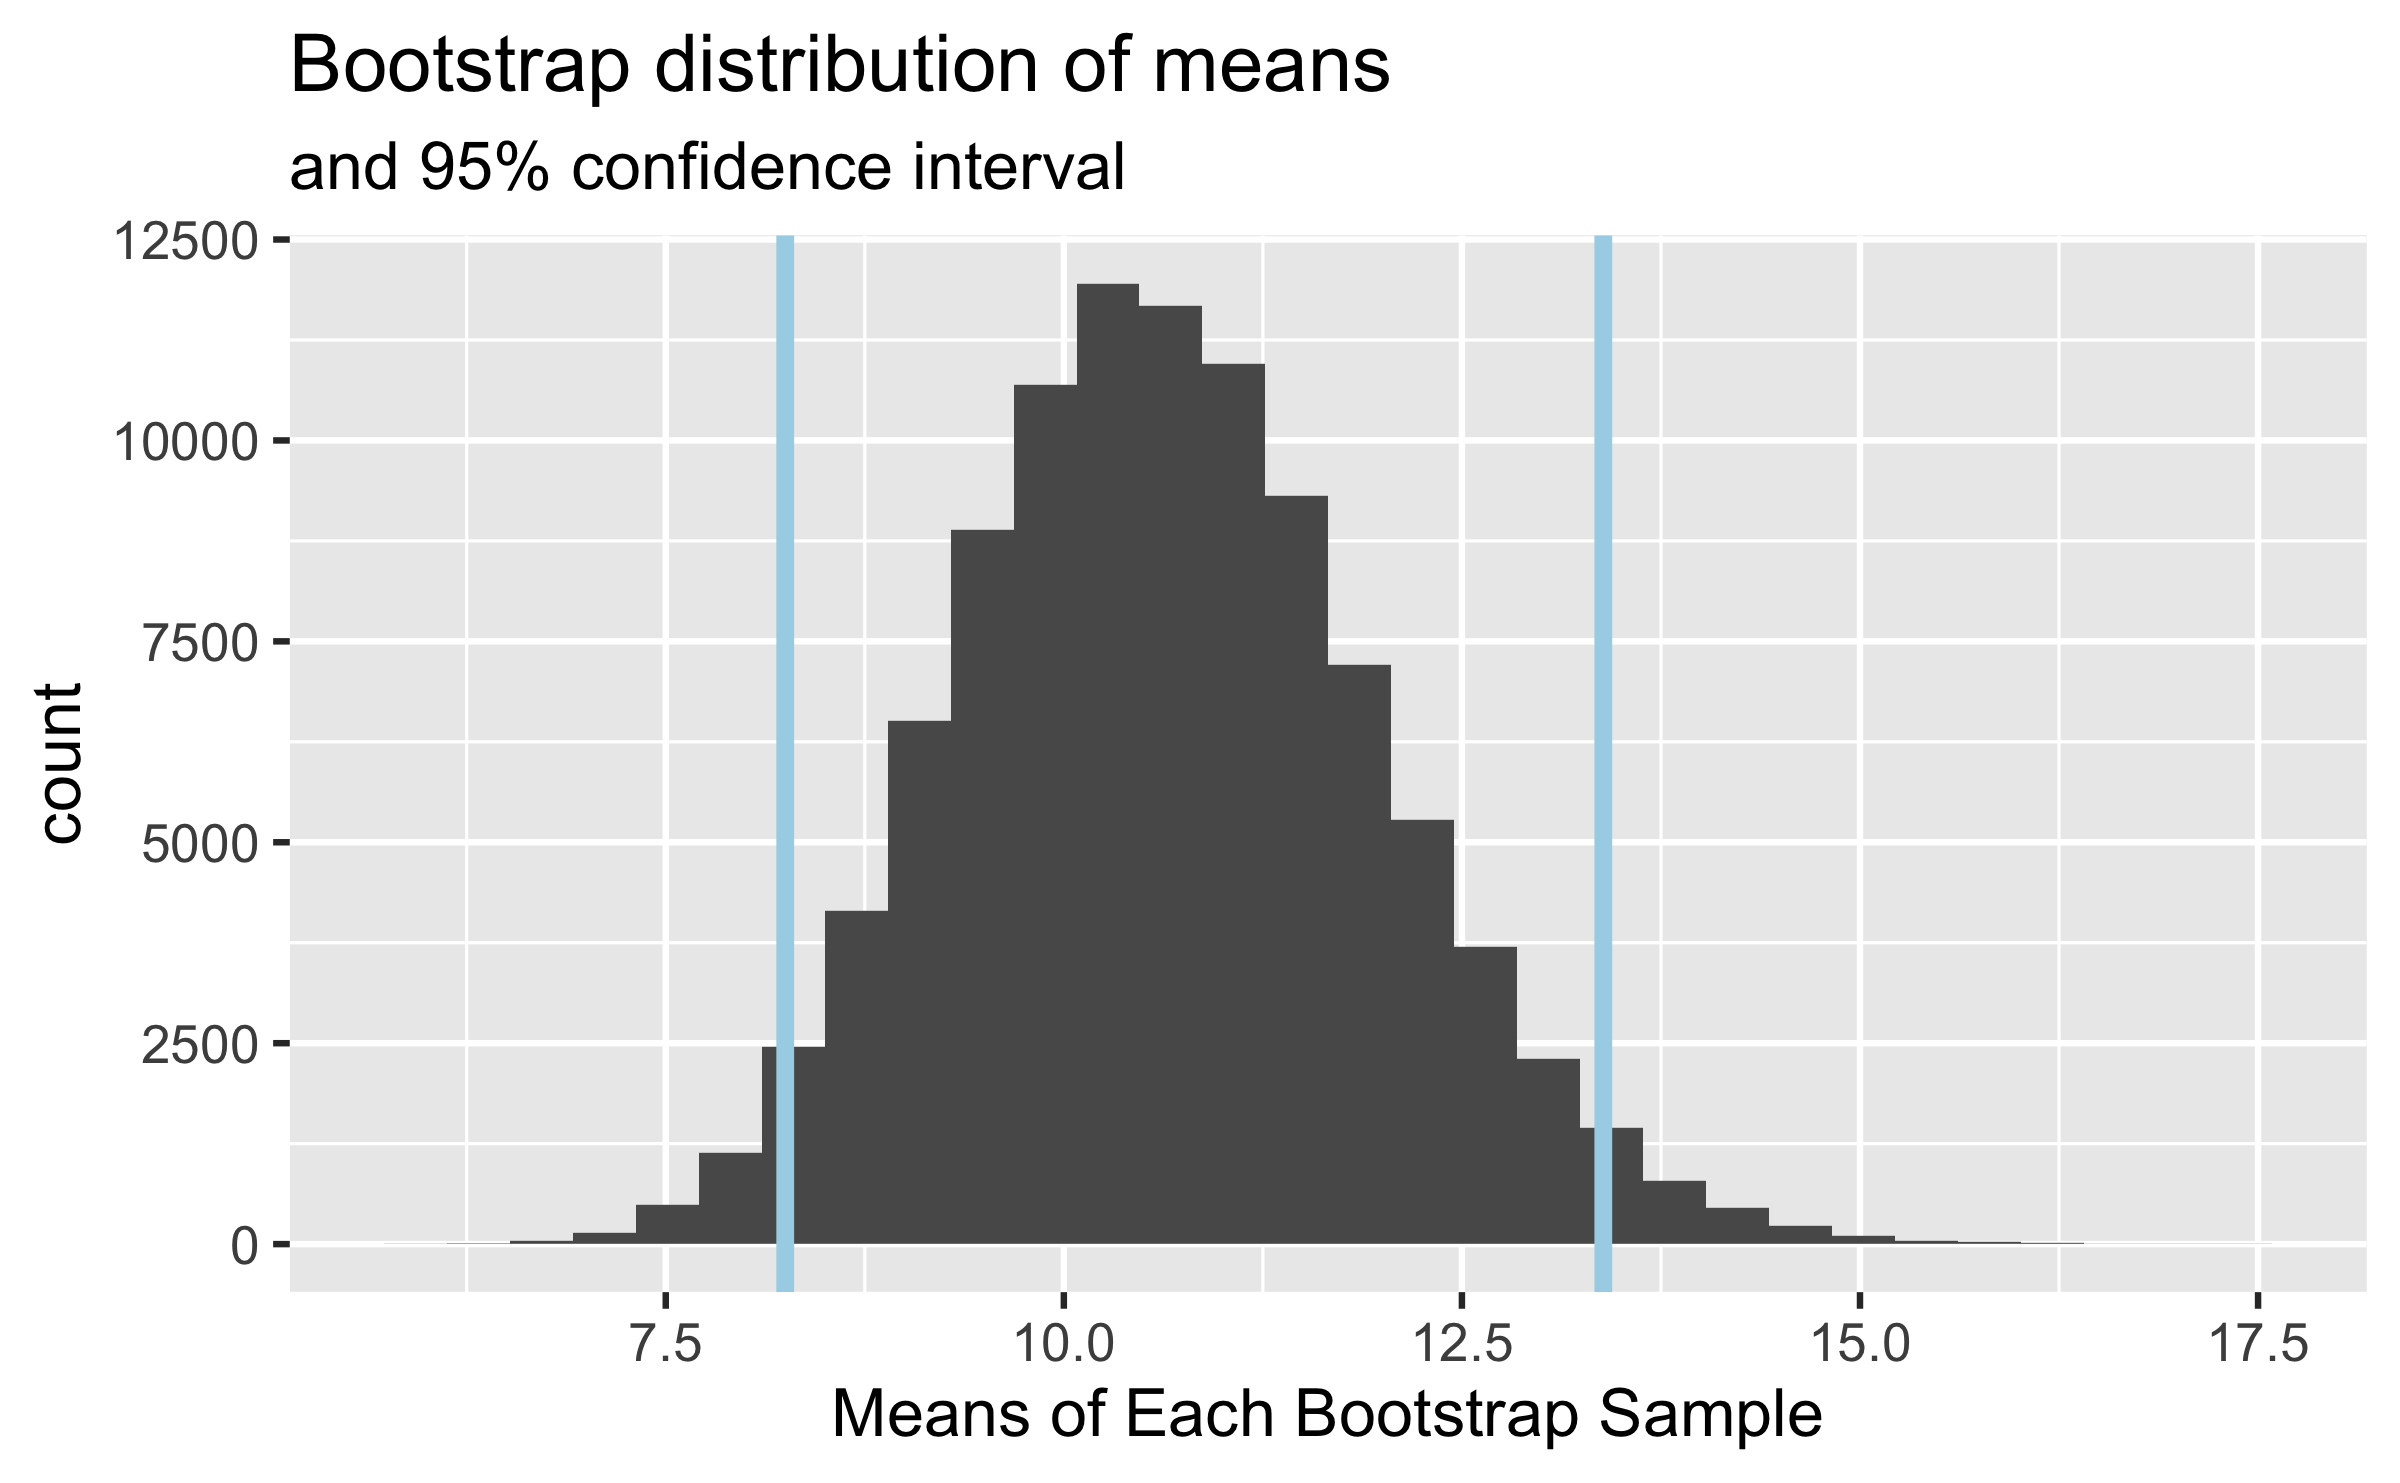
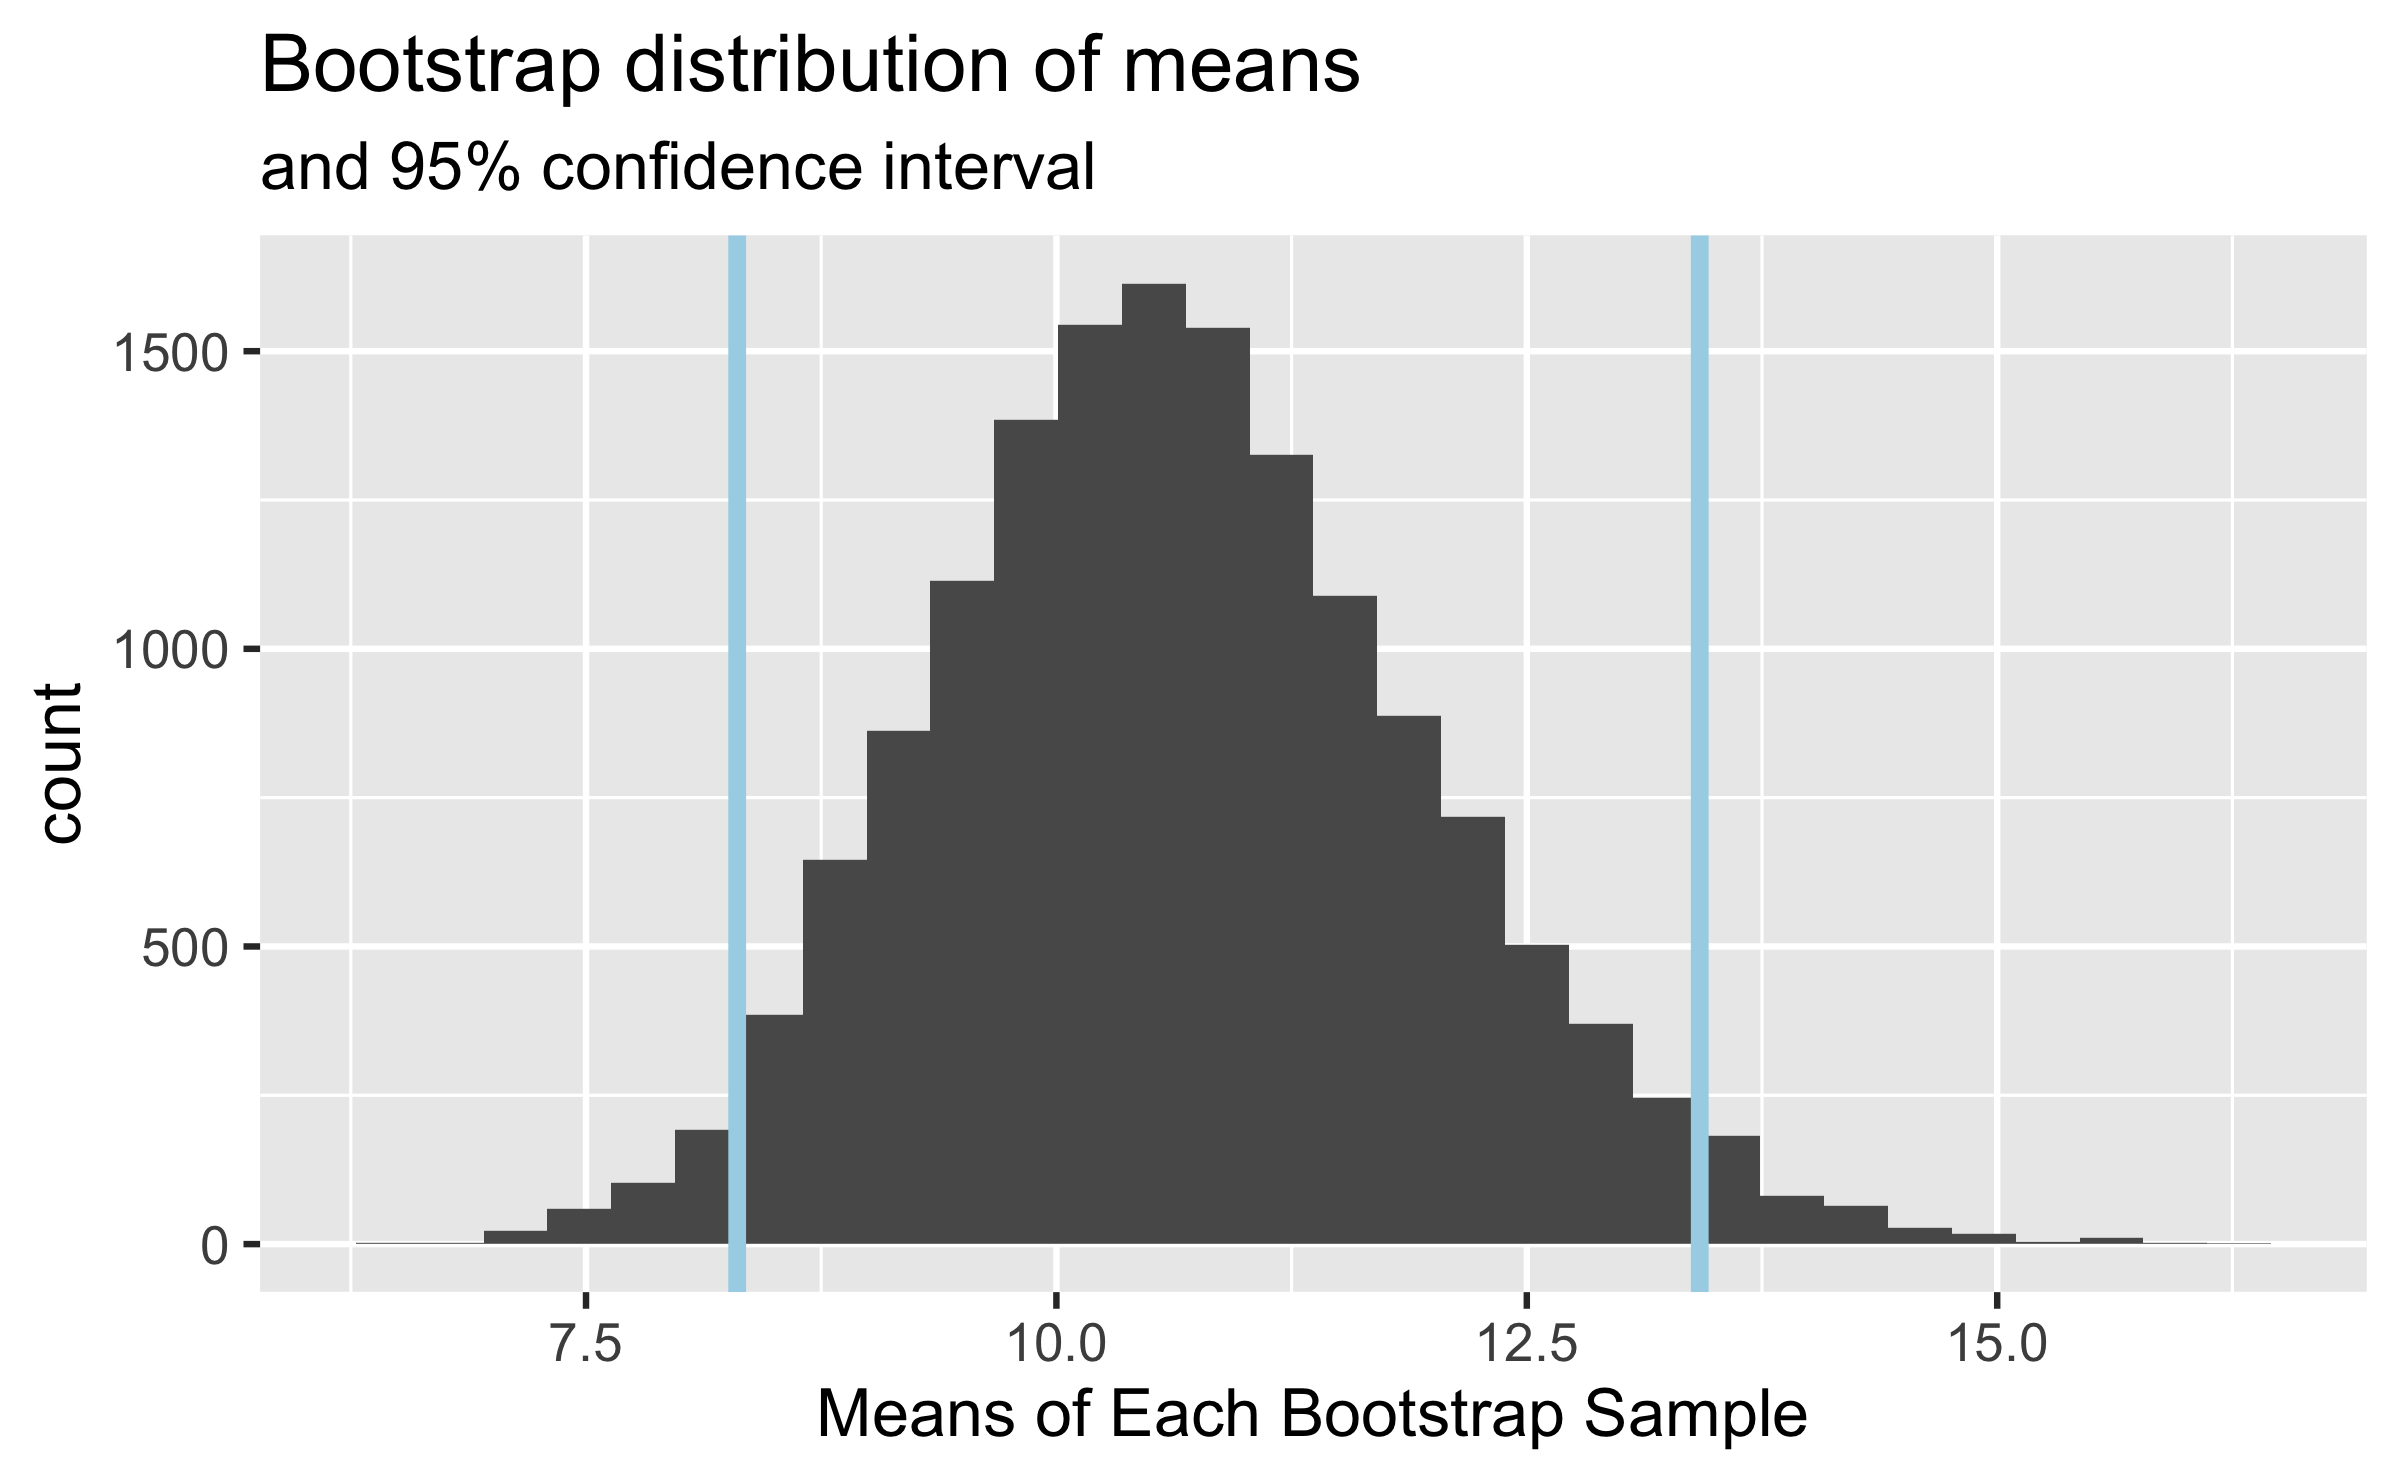
back to 15k bootstrap

diff --git a/docs/slides/week-06/w6-l02-clt.html b/docs/slides/week-06/w6-l02-clt.html
@@ -682,8 +682,8 @@ flint %&gt;%
 boot_flintmean &lt;- flint %&gt;%
   # specify the variable of interest
   specify(response = Pb_initial) %&gt;%
-  # generate 100000 bootstrap samples
-  generate(reps = 100000, type = "bootstrap") %&gt;%
+  # generate 15000 bootstrap samples
+  generate(reps = 15000, type = "bootstrap") %&gt;%
   # calculate the mean of each bootstrap sample
   calculate(stat = "mean")
 ```
@@ -703,7 +703,7 @@ boot_flintmean
 
 ```
 #&gt; Response: Pb_initial (numeric)
-#&gt; # A tibble: 100,000 × 2
+#&gt; # A tibble: 15,000 × 2
 #&gt;   replicate  stat
 #&gt;       &lt;int&gt; &lt;dbl&gt;
 #&gt; 1         1  9.46
@@ -712,7 +712,7 @@ boot_flintmean
 #&gt; 4         4  9.31
 #&gt; 5         5 13.4 
 #&gt; 6         6 10.6 
-#&gt; # … with 99,994 more rows
+#&gt; # … with 14,994 more rows
 ```
 
 ---
@@ -746,7 +746,7 @@ boot_flintmean %&gt;%
 #&gt; # A tibble: 1 × 2
 #&gt;   lower upper
 #&gt;   &lt;dbl&gt; &lt;dbl&gt;
-#&gt; 1  8.25  13.4
+#&gt; 1  8.30  13.4
 ```
 
 ---
@@ -762,15 +762,15 @@ boot_flintmean %&gt;%
 ## Interpret the confidence interval
 
 .question[
-The 95% confidence interval for the mean lead levels of initial water samples from Flint is (8.2502751, 13.3879632). Which of the following is the correct interpretation of this interval?
+The 95% confidence interval for the mean lead levels of initial water samples from Flint is (8.3034369, 13.419074). Which of the following is the correct interpretation of this interval?
 
-**(a)** 95% of the time the mean lead level in this sample is between 8.2502751 and 13.3879632 ppb.
+**(a)** 95% of the time the mean lead level in this sample is between 8.3034369 and 13.419074 ppb.
 
-**(b)** 95% of all water samples in Flint have lead levels between 8.2502751 and 13.3879632 ppb.
+**(b)** 95% of all water samples in Flint have lead levels between 8.3034369 and 13.419074 ppb.
 
-**(c)** We are 95% confident that the mean lead level in Flint is between 8.2502751 and 13.3879632 ppb.
+**(c)** We are 95% confident that the mean lead level in Flint is between 8.3034369 and 13.419074 ppb.
 
-**(d)** We are 95% confident that the mean lead level in this sample is between 8.2502751 and 13.3879632 ppb.
+**(d)** We are 95% confident that the mean lead level in this sample is between 8.3034369 and 13.419074 ppb.
 ]
 
 ---

diff --git a/static/slides/week-06/w6-l02-clt.html b/static/slides/week-06/w6-l02-clt.html
@@ -682,8 +682,8 @@ flint %&gt;%
 boot_flintmean &lt;- flint %&gt;%
   # specify the variable of interest
   specify(response = Pb_initial) %&gt;%
-  # generate 100000 bootstrap samples
-  generate(reps = 100000, type = "bootstrap") %&gt;%
+  # generate 15000 bootstrap samples
+  generate(reps = 15000, type = "bootstrap") %&gt;%
   # calculate the mean of each bootstrap sample
   calculate(stat = "mean")
 ```
@@ -703,7 +703,7 @@ boot_flintmean
 
 ```
 #&gt; Response: Pb_initial (numeric)
-#&gt; # A tibble: 100,000 × 2
+#&gt; # A tibble: 15,000 × 2
 #&gt;   replicate  stat
 #&gt;       &lt;int&gt; &lt;dbl&gt;
 #&gt; 1         1  9.46
@@ -712,7 +712,7 @@ boot_flintmean
 #&gt; 4         4  9.31
 #&gt; 5         5 13.4 
 #&gt; 6         6 10.6 
-#&gt; # … with 99,994 more rows
+#&gt; # … with 14,994 more rows
 ```
 
 ---
@@ -746,7 +746,7 @@ boot_flintmean %&gt;%
 #&gt; # A tibble: 1 × 2
 #&gt;   lower upper
 #&gt;   &lt;dbl&gt; &lt;dbl&gt;
-#&gt; 1  8.25  13.4
+#&gt; 1  8.30  13.4
 ```
 
 ---
@@ -762,15 +762,15 @@ boot_flintmean %&gt;%
 ## Interpret the confidence interval
 
 .question[
-The 95% confidence interval for the mean lead levels of initial water samples from Flint is (8.2502751, 13.3879632). Which of the following is the correct interpretation of this interval?
+The 95% confidence interval for the mean lead levels of initial water samples from Flint is (8.3034369, 13.419074). Which of the following is the correct interpretation of this interval?
 
-**(a)** 95% of the time the mean lead level in this sample is between 8.2502751 and 13.3879632 ppb.
+**(a)** 95% of the time the mean lead level in this sample is between 8.3034369 and 13.419074 ppb.
 
-**(b)** 95% of all water samples in Flint have lead levels between 8.2502751 and 13.3879632 ppb.
+**(b)** 95% of all water samples in Flint have lead levels between 8.3034369 and 13.419074 ppb.
 
-**(c)** We are 95% confident that the mean lead level in Flint is between 8.2502751 and 13.3879632 ppb.
+**(c)** We are 95% confident that the mean lead level in Flint is between 8.3034369 and 13.419074 ppb.
 
-**(d)** We are 95% confident that the mean lead level in this sample is between 8.2502751 and 13.3879632 ppb.
+**(d)** We are 95% confident that the mean lead level in this sample is between 8.3034369 and 13.419074 ppb.
 ]
 
 ---
